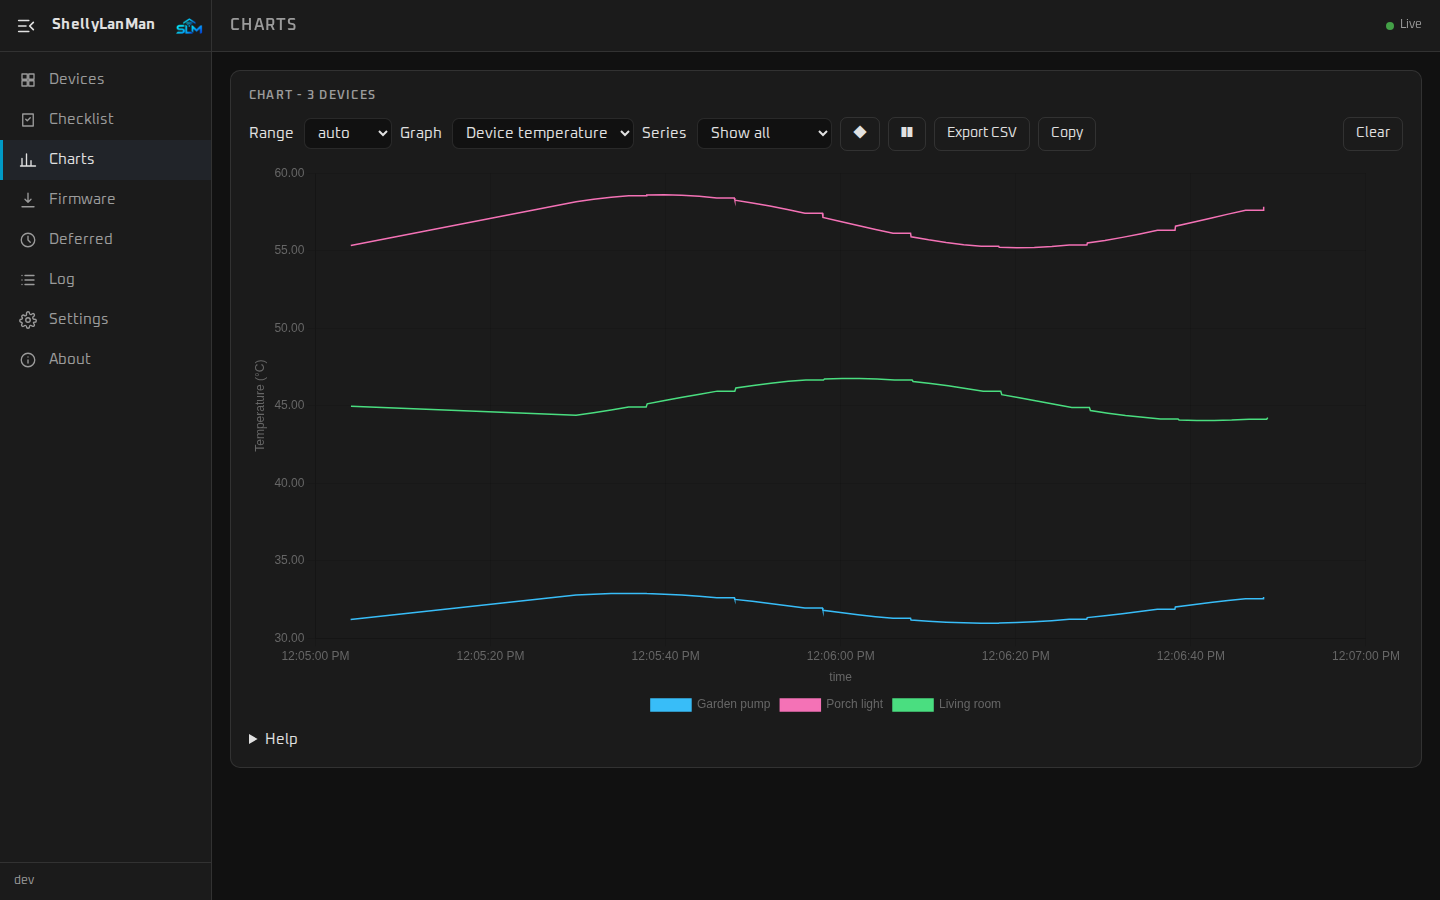
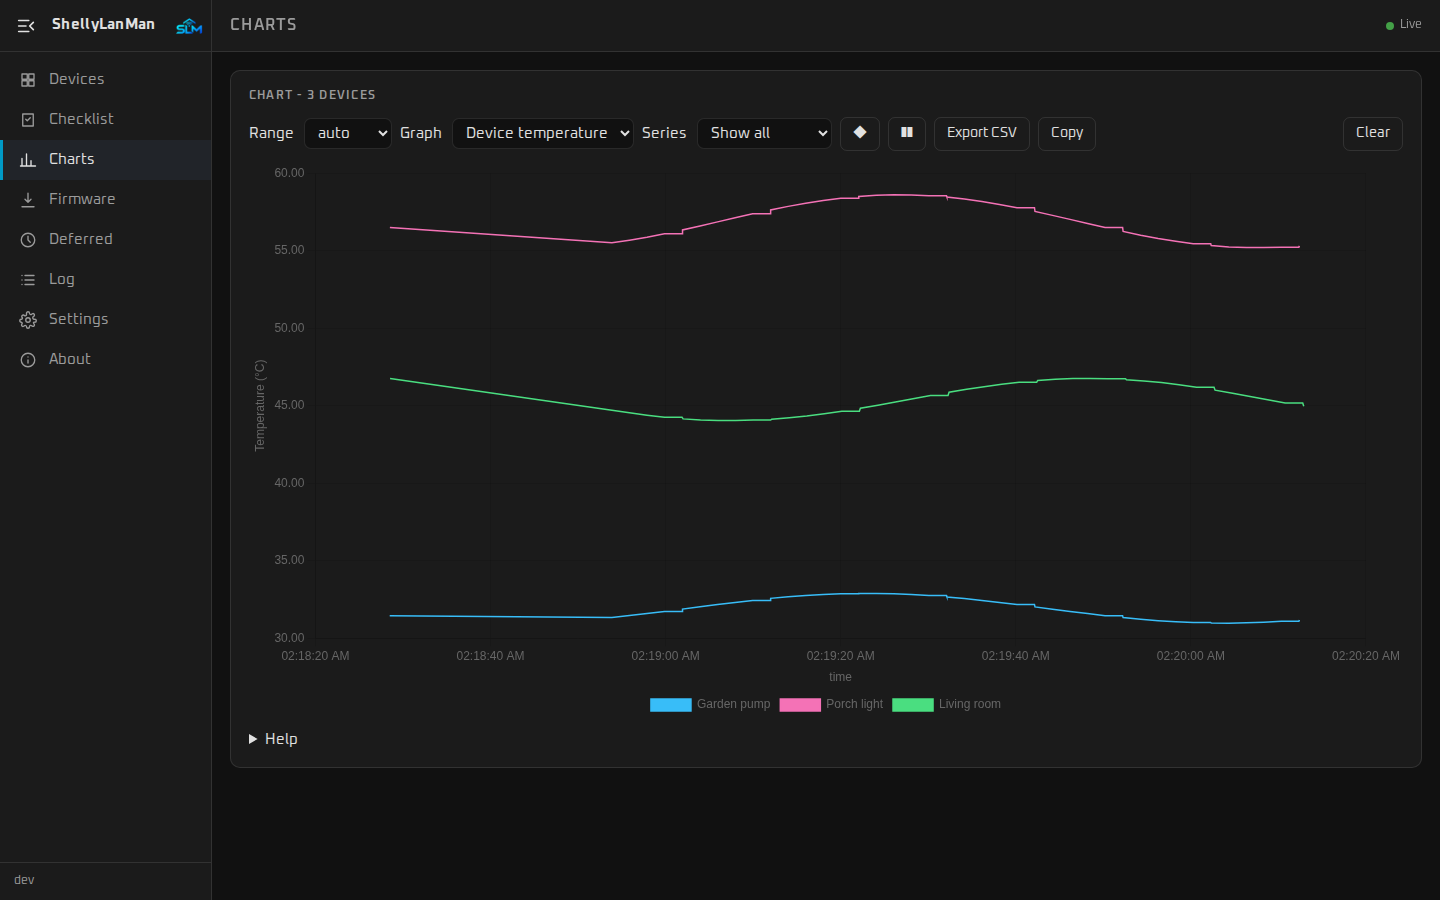
Screenshots and README animations taken again
Claude-Session: https://claude.ai/code/session_01AKoa95iUpjhj6Pfq7k9mia

diff --git a/docs/WORKFLOW.md b/docs/WORKFLOW.md
@@ -83,7 +83,7 @@ failing read (HTTP 500). Run it after changes to the CSP, the editor or its
 libraries; unit tests do not render under the real CSP. The same goes for
 `check-blu.py` (relayed BLU rows and the Identify wizard, "Living room" relays a
 BLU device, `tools/screenshots/blu/`) and `check-nav.py` (full and minimal sidebar) and `check-login.py` (the UI password:
-Settings → Security, login, log out, switching off) and `check-log.py` (the Log page: live lines, level filter, search, pause, clear, copy) and `check-apwizard.py` (the firmware wizard through the access point) and `check-provision.py` (profiles and the wizard *Set up a new Shelly*; applying is tried on a simulator).
+Settings → Security, login, log out, switching off) and `check-log.py` (the Log page: live lines, level filter, search, pause, clear, copy) and `check-apwizard.py` (the firmware wizard through the access point) and `check-provision.py` (profiles and the wizard *Set up a new Shelly*; applying is tried on a simulator) and `check-phone-tables.py` (Devices, Checklist and Firmware as cards on a phone, the tables at 1920 px, the tabs on a phone, the ⚡ button and the re-flash note). Run it with the test container on port 3199 stopped: every script here uses that port.
 
 Slow or failing devices: an optional `_behaviour.json` in a fixture directory
 delays or fails GET requests by URI, e.g.

diff --git a/CHANGELOG.md b/CHANGELOG.md
@@ -48,6 +48,7 @@ versions follow [Semantic Versioning](https://semver.org/).
   [KissmanCZ](https://github.com/KissmanCZ).
 
 ### Documentation
+- README screenshots and both animations (tour, access-point wizard) taken again with the new tables.
 - README: the introduction no longer says ShellyLanMan is only a Docker container (it also runs in a Proxmox
   container or as a Linux service).
 - Hardware tests: the local firmware update also tested on a Gen1 Shelly.
